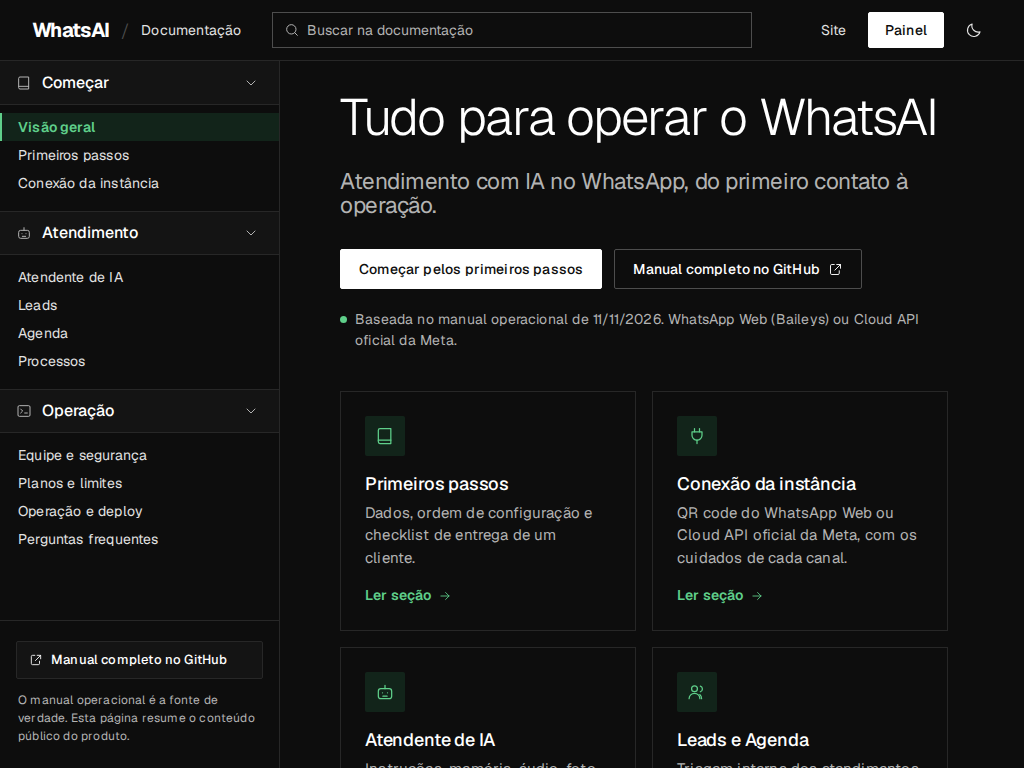
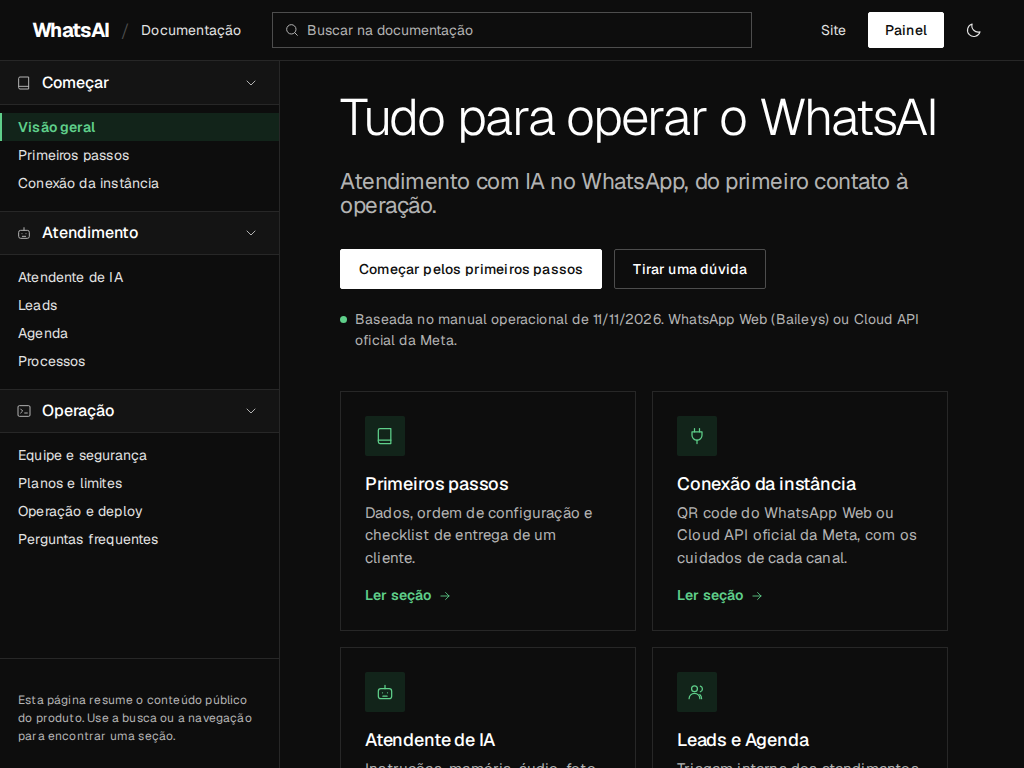
fix(docs): cores semanticas, topo fixo e sem links para GitHub [skip render]
Os cards de atencao e erro deixaram de ser rosa/roxo: atencao agora e ambar, erro e vermelho, ok e verde, e o codigo inline ficou neutro. O drawer usa overflow clip em vez de hidden, porque hidden quebrava o topbar sticky e o cabecalho sumia ao abrir o menu; o scroll e preservado ao abrir e fechar. Links e mencoes a GitHub sairam da documentacao publica. No desktop e no tablet a sidebar segue com 280px. Capturas antes/depois e comparacao com o Render em readmes/pr/documentacao.

Changed region(s): [[0.0, 0.9062, 0.25, 0.9688], [0.625, 0.3438, 0.8125, 0.375], [0.0312, 0.8438, 0.2188, 0.875]]

diff --git a/manager/dist/docs/index.html b/manager/dist/docs/index.html
@@ -207,11 +207,7 @@
           <p class="side-empty" data-side-empty hidden>Nenhuma seção corresponde à busca.</p>
         </nav>
         <div class="side-foot">
-          <a class="side-gh" href="https://github.com/devconnecting1/evolution-api-render/blob/main/README-WHATSAI.md" target="_blank" rel="noopener">
-            <svg class="ico" aria-hidden="true"><use href="#i-external" /></svg>
-            Manual completo no GitHub
-          </a>
-          <p>O manual operacional é a fonte de verdade. Esta página resume o conteúdo público do produto.</p>
+          <p>Esta página resume o conteúdo público do produto. Use a busca ou a navegação para encontrar uma seção.</p>
         </div>
       </aside>
 
@@ -221,10 +217,7 @@
           <p class="hero-lead">Atendimento com IA no WhatsApp, do primeiro contato à operação.</p>
           <div class="hero-actions">
             <a class="btn btn-primary" href="#primeiros-passos">Começar pelos primeiros passos</a>
-            <a class="btn btn-quiet" href="https://github.com/devconnecting1/evolution-api-render/blob/main/README-WHATSAI.md" target="_blank" rel="noopener">
-              Manual completo no GitHub
-              <svg class="ico" aria-hidden="true"><use href="#i-external" /></svg>
-            </a>
+            <a class="btn btn-quiet" href="#perguntas-frequentes">Tirar uma dúvida</a>
           </div>
           <p class="hero-meta">
             <span class="status-dot" aria-hidden="true"></span>
@@ -365,8 +358,7 @@
           <div class="callout callout-note">
             <svg class="callout-ico" aria-hidden="true"><use href="#i-info" /></svg>
             <div>
-              <p><strong>Fonte de verdade.</strong> Esta página resume o manual operacional. Em caso de diferença, vale o
-              <a href="https://github.com/devconnecting1/evolution-api-render/blob/main/README-WHATSAI.md" target="_blank" rel="noopener">README-WHATSAI.md no GitHub</a>.</p>
+              <p><strong>Fonte de verdade.</strong> Esta página resume o manual operacional e é a referência pública do produto.</p>
             </div>
           </div>
         </section>
@@ -1039,15 +1031,15 @@ Conversa: https://wa.me/55DDDNUMERO</code></pre>
 
           <h3 id="operacao-deploy">Fluxo de deploy</h3>
           <ol class="steps steps-compact">
-            <li><span class="step-n" aria-hidden="true">1</span><div><h4>Branch e PR</h4><p>Cada tarefa em uma branch própria, com PR e as checagens do GitHub verdes antes do squash no <code>main</code>.</p></div></li>
+            <li><span class="step-n" aria-hidden="true">1</span><div><h4>Branch e PR</h4><p>Cada tarefa em uma branch própria, com PR e as checagens automáticas verdes antes do squash no <code>main</code>.</p></div></li>
             <li><span class="step-n" aria-hidden="true">2</span><div><h4>API no Render</h4><p>Mudanças em <code>src/</code>, <code>prisma/</code>, <code>Dockerfile</code> ou <code>render.yaml</code> disparam o deploy automático. A API fica cerca de 4 minutos fora e reconecta as instâncias: faça fora do horário comercial.</p></div></li>
             <li><span class="step-n" aria-hidden="true">3</span><div><h4>Site e painel na Vercel</h4><p>O workflow <strong>Deploy Manager</strong> publica <code>manager/dist</code> a cada push no <code>main</code> que muda esses arquivos. Mudança só estática leva <code>[skip render]</code> no título do squash para não reiniciar a API.</p></div></li>
-            <li><span class="step-n" aria-hidden="true">4</span><div><h4>Confira depois do deploy</h4><p>Veja o deploy <code>live</code> no Render e o estado da instância; o esperado é <code>open</code>. As checagens do GitHub cobrem lint, formatação, build, tipos, unitários, integração, patches do painel, Docker e segurança.</p></div></li>
+            <li><span class="step-n" aria-hidden="true">4</span><div><h4>Confira depois do deploy</h4><p>Veja o deploy <code>live</code> no Render e o estado da instância; o esperado é <code>open</code>. As checagens automáticas cobrem lint, formatação, build, tipos, unitários, integração, patches do painel, Docker e segurança.</p></div></li>
           </ol>
 
           <h3 id="operacao-monitoramento">Monitoramento e backups</h3>
           <ul class="doc-list">
-            <li>A <strong>Observabilidade</strong> reúne Neon, Render, Vercel, GitHub Actions, OpenAI, WhatsApp, Plano e uso e bancos próprios, com cache de 60 s e botão de atualizar.</li>
+            <li>A <strong>Observabilidade</strong> reúne Neon, Render, Vercel, OpenAI, WhatsApp, Plano e uso e bancos próprios, com cache de 60 s e botão de atualizar.</li>
             <li>Avisos ao administrador pelo WhatsApp: chave OpenAI inválida, sem crédito ou sem o modelo, e instância desconectada por mais de 10 minutos. O mesmo aviso não se repete por 6 horas; não há aviso por e-mail.</li>
             <li>Backup: snapshots do Neon mais <code>pg_dump</code> mensal do projeto principal e de cada projeto de instância.</li>
             <li>Monitore diariamente as chaves OpenAI, a franquia, instâncias <code>close</code>, sessões travadas e os erros no log do Render.</li>
@@ -1093,8 +1085,7 @@ npm run db:deploy
 npm run dev:server</code></pre>
           </div>
           <p>
-            Preencha o <code>.env</code> com banco, chave global e OpenAI, e nunca o commite. A suíte completa roda no
-            GitHub Actions; localmente, use os testes só para depurar um check vermelho.
+            Preencha o <code>.env</code> com banco, chave global e OpenAI, e nunca o commite. A suíte completa roda nas checagens automáticas; localmente, use os testes só para depurar uma checagem vermelha.
           </p>
 
           <h3 id="operacao-problemas">Problemas comuns</h3>
@@ -1206,7 +1197,7 @@ npm run dev:server</code></pre>
           <div class="callout callout-note">
             <svg class="callout-ico" aria-hidden="true"><use href="#i-info" /></svg>
             <div>
-              <p><strong>Não encontrou?</strong> O <a href="https://github.com/devconnecting1/evolution-api-render/blob/main/README-WHATSAI.md" target="_blank" rel="noopener">manual completo no GitHub</a> tem todas as seções, endpoints e decisões do projeto. Para falar com a equipe, use o contato no <a href="/">site</a>.</p>
+              <p><strong>Não encontrou?</strong> Use a busca no topo ou a navegação ao lado. Para falar com a equipe, use o contato no <a href="/">site</a>.</p>
             </div>
           </div>
         </section>
@@ -1262,11 +1253,10 @@ npm run dev:server</code></pre>
           </ul>
         </nav>
         <nav class="foot-col" aria-labelledby="foot-projeto">
-          <p class="foot-h" id="foot-projeto">Projeto</p>
+          <p class="foot-h" id="foot-projeto">Atalhos</p>
           <ul>
+            <li><a href="/">Site</a></li>
             <li><a href="/manager/login">Painel</a></li>
-            <li><a href="https://github.com/devconnecting1/evolution-api-render/blob/main/README-WHATSAI.md" target="_blank" rel="noopener">Manual no GitHub</a></li>
-            <li><a href="https://github.com/devconnecting1/evolution-api-render/blob/main/readmes/GUIA-DO-PROJETO.md" target="_blank" rel="noopener">Guia do projeto</a></li>
             <li><a href="/.well-known/security.txt">security.txt</a></li>
           </ul>
         </nav>

diff --git a/manager/dist/docs/docs.css b/manager/dist/docs/docs.css
@@ -36,14 +36,17 @@
   --d-code-text: #272727;
   --d-code-muted: #6b6b6b;
   --d-inline-bg: #fafafa;
-  --d-inline-text: #e23642;
+  --d-inline-text: #0d0d0d;
   --d-table-line: #e2e2e2;
   --d-note-bg: #e9f5ee;
   --d-note-border: #1a9e5c;
   --d-note-text: #0b3d26;
-  --d-pink-bg: #fce2fe;
-  --d-pink-border: #f347ff;
-  --d-pink-text: #2c001d;
+  --d-warn-bg: #fdf0d5;
+  --d-warn-border: #d97706;
+  --d-warn-text: #5a3a00;
+  --d-bad-bg: #fde2e1;
+  --d-bad-border: #b42318;
+  --d-bad-text: #5a1210;
   /* verde escuro da marca: ponto de status e checks */
   --d-ok: #0e7a4d;
   --d-ok-bg: #e9f5ee;
@@ -85,14 +88,17 @@
     --d-code-text: #eeeeee;
     --d-code-muted: #b3b3b3;
     --d-inline-bg: #272727;
-    --d-inline-text: #f0989e;
+    --d-inline-text: #ffffff;
     --d-table-line: #4d4d4d;
     --d-note-bg: #12241a;
     --d-note-border: #1f5c3a;
     --d-note-text: #c9f7d9;
-    --d-pink-bg: #2c001d;
-    --d-pink-border: #5c0056;
-    --d-pink-text: #fac7ff;
+    --d-warn-bg: #2a1f0c;
+    --d-warn-border: #8a5a12;
+    --d-warn-text: #fcd38d;
+    --d-bad-bg: #2d1414;
+    --d-bad-border: #7f2a2a;
+    --d-bad-text: #fca5a5;
     --d-ok: #5fcf8a;
     --d-ok-bg: #12241a;
   }
@@ -126,14 +132,17 @@
   --d-code-text: #eeeeee;
   --d-code-muted: #b3b3b3;
   --d-inline-bg: #272727;
-  --d-inline-text: #f0989e;
+  --d-inline-text: #ffffff;
   --d-table-line: #4d4d4d;
   --d-note-bg: #12241a;
   --d-note-border: #1f5c3a;
   --d-note-text: #c9f7d9;
-  --d-pink-bg: #2c001d;
-  --d-pink-border: #5c0056;
-  --d-pink-text: #fac7ff;
+  --d-warn-bg: #2a1f0c;
+  --d-warn-border: #8a5a12;
+  --d-warn-text: #fcd38d;
+  --d-bad-bg: #2d1414;
+  --d-bad-border: #7f2a2a;
+  --d-bad-text: #fca5a5;
   --d-ok: #5fcf8a;
   --d-ok-bg: #12241a;
 }
@@ -1204,16 +1213,30 @@ td strong {
 :root[data-theme-mode="dark"] .callout code {
   background: rgba(255, 255, 255, 0.1);
 }
-.callout-warn,
+.callout-warn {
+  border-color: var(--d-warn-border);
+  background: var(--d-warn-bg);
+  color: var(--d-warn-text);
+}
 .callout-bad {
-  border-color: var(--d-pink-border);
-  background: var(--d-pink-bg);
-  color: var(--d-pink-text);
+  border-color: var(--d-bad-border);
+  background: var(--d-bad-bg);
+  color: var(--d-bad-text);
 }
 .callout-ok {
   border-color: var(--d-note-border);
   background: var(--d-note-bg);
   color: var(--d-note-text);
+}
+.callout-warn .callout-ico {
+  background: var(--d-warn-border);
+}
+.callout-bad .callout-ico {
+  background: var(--d-bad-border);
+}
+.callout-note .callout-ico,
+.callout-ok .callout-ico {
+  background: var(--d-accent);
 }
 
 /* passos */
@@ -1313,9 +1336,9 @@ td strong {
   white-space: nowrap;
 }
 .chip-high {
-  background: var(--d-pink-bg);
-  border-color: var(--d-pink-border);
-  color: var(--d-pink-text);
+  background: var(--d-warn-bg);
+  border-color: var(--d-warn-border);
+  color: var(--d-warn-text);
 }
 .chip-low {
   background: var(--d-bg-muted);
@@ -1715,7 +1738,8 @@ td strong {
   }
   html.drawer-open,
   html.drawer-open body {
-    overflow: hidden;
+    /* clip, nao hidden: hidden cria um container de rolagem e quebra o topbar sticky */
+    overflow: clip;
   }
   html.drawer-open .sidebar {
     transform: none;

diff --git a/manager/dist/docs/docs.js b/manager/dist/docs/docs.js
@@ -155,18 +155,23 @@
     var scrim = document.querySelector('[data-scrim]');
     if (!toggle || !sidebar) return;
 
+    var savedScroll = 0;
+
     function isOpen() {
       return root.classList.contains('drawer-open');
     }
 
     function openDrawer() {
+      savedScroll = window.scrollY;
       root.classList.add('drawer-open');
       toggle.setAttribute('aria-expanded', 'true');
       if (scrim) scrim.hidden = false;
       var first = sidebar.querySelector('[data-drawer-close]') || sidebar.querySelector('a, button');
       if (first) {
         window.requestAnimationFrame(function () {
-          first.focus();
+          // preventScroll keeps the page where it was; the full-width drawer already covers the content.
+          first.focus({ preventScroll: true });
+          window.scrollTo(0, savedScroll);
         });
       }
     }
@@ -176,7 +181,13 @@
       root.classList.remove('drawer-open');
       toggle.setAttribute('aria-expanded', 'false');
       if (scrim) scrim.hidden = true;
-      if (returnFocus) toggle.focus();
+      if (returnFocus) {
+        // after removing drawer-open, wait for the drawer transition so the page has its full height again
+        window.setTimeout(function () {
+          toggle.focus({ preventScroll: true });
+          window.scrollTo({ top: savedScroll, behavior: 'instant' });
+        }, 220);
+      }
     }
 
     toggle.addEventListener('click', function () {

diff --git a/readmes/pr/documentacao/DESIGN.md b/readmes/pr/documentacao/DESIGN.md
@@ -32,8 +32,9 @@ os ícones e o código são do WhatsAI.
 | Accent suave | `#f4f0ff` / `#2a0052` | `#e9f5ee` / `#12241a` | Fundo do item ativo e ícones de card, no verde da marca. |
 | Foco | `#8a05ff` / `#c29eff` | `#0e7a4d` / `#86efac` | Anel de foco visível por teclado. |
 | Nota | `#f4f0ff`, borda `#9b52fb`, texto `#1c0037` / `#1c0037`, borda `#48008c`, texto `#e7dbff` | `#e9f5ee`, borda `#1a9e5c`, texto `#0b3d26` / `#12241a`, borda `#1f5c3a`, texto `#c9f7d9` | Callout informativo no verde da marca. |
-| Atenção e limite | `#fce2fe`, borda `#f347ff`, texto `#2c001d` / `#2c001d`, borda `#5c0056`, texto `#fac7ff` | igual | Callout de risco. |
-| Código inline | fundo `#fafafa`, texto `#e23642` / fundo `#272727`, texto `#f0989e` | igual | Trecho curto no meio do texto. |
+| Atenção e limite | `#fce2fe`, borda `#f347ff`, texto `#2c001d` / `#2c001d`, borda `#5c0056`, texto `#fac7ff` | `#fdf0d5`, borda `#d97706`, texto `#5a3a00` / `#2a1f0c`, borda `#8a5a12`, texto `#fcd38d` | Callout de atenção em âmbar, no lugar do rosa do Render. |
+| Erro | `#fce2fe`, borda `#f347ff`, texto `#2c001d` / `#2c001d`, borda `#5c0056`, texto `#fac7ff` | `#fde2e1`, borda `#b42318`, texto `#5a1210` / `#2d1414`, borda `#7f2a2a`, texto `#fca5a5` | Callout de erro em vermelho, separado da atenção. |
+| Código inline | fundo `#fafafa`, texto `#e23642` / fundo `#272727`, texto `#f0989e` | fundo `#fafafa`, texto `#0d0d0d` / fundo `#272727`, texto `#ffffff` | Neutro, porque vermelho é reservado a erro. |
 | Bloco de código | fundo `#fafafa`, cabeçalho `#ffffff`, borda `#e3e3e3` / `#141414`, `#0d0d0d`, `#272727` | igual | Barra com linguagem e botão de copiar. |
 | Botão primário | fundo `#0d0d0d`, texto `#ffffff` / fundo `#ffffff`, texto `#0d0d0d` | igual | Hover preenche com o accent. |
 
@@ -133,3 +134,4 @@ sobrescrita apenas dentro da documentação.
 3. Adicionar feedback "Esta página foi útil?" e um link direto para abrir uma issue no GitHub.
 4. Guardar no navegador o estado dos grupos recolhidos da navegação.
 5. Incluir `/docs` na meta de Lighthouse e nas capturas automatizadas de 390, 768, 1024 e 1440 px, claro e escuro.
+6. Manter a semântica de cor do painel: verde = ok, âmbar = atenção e vermelho = erro; não voltar ao rosa/roxo do Render nos callouts.
